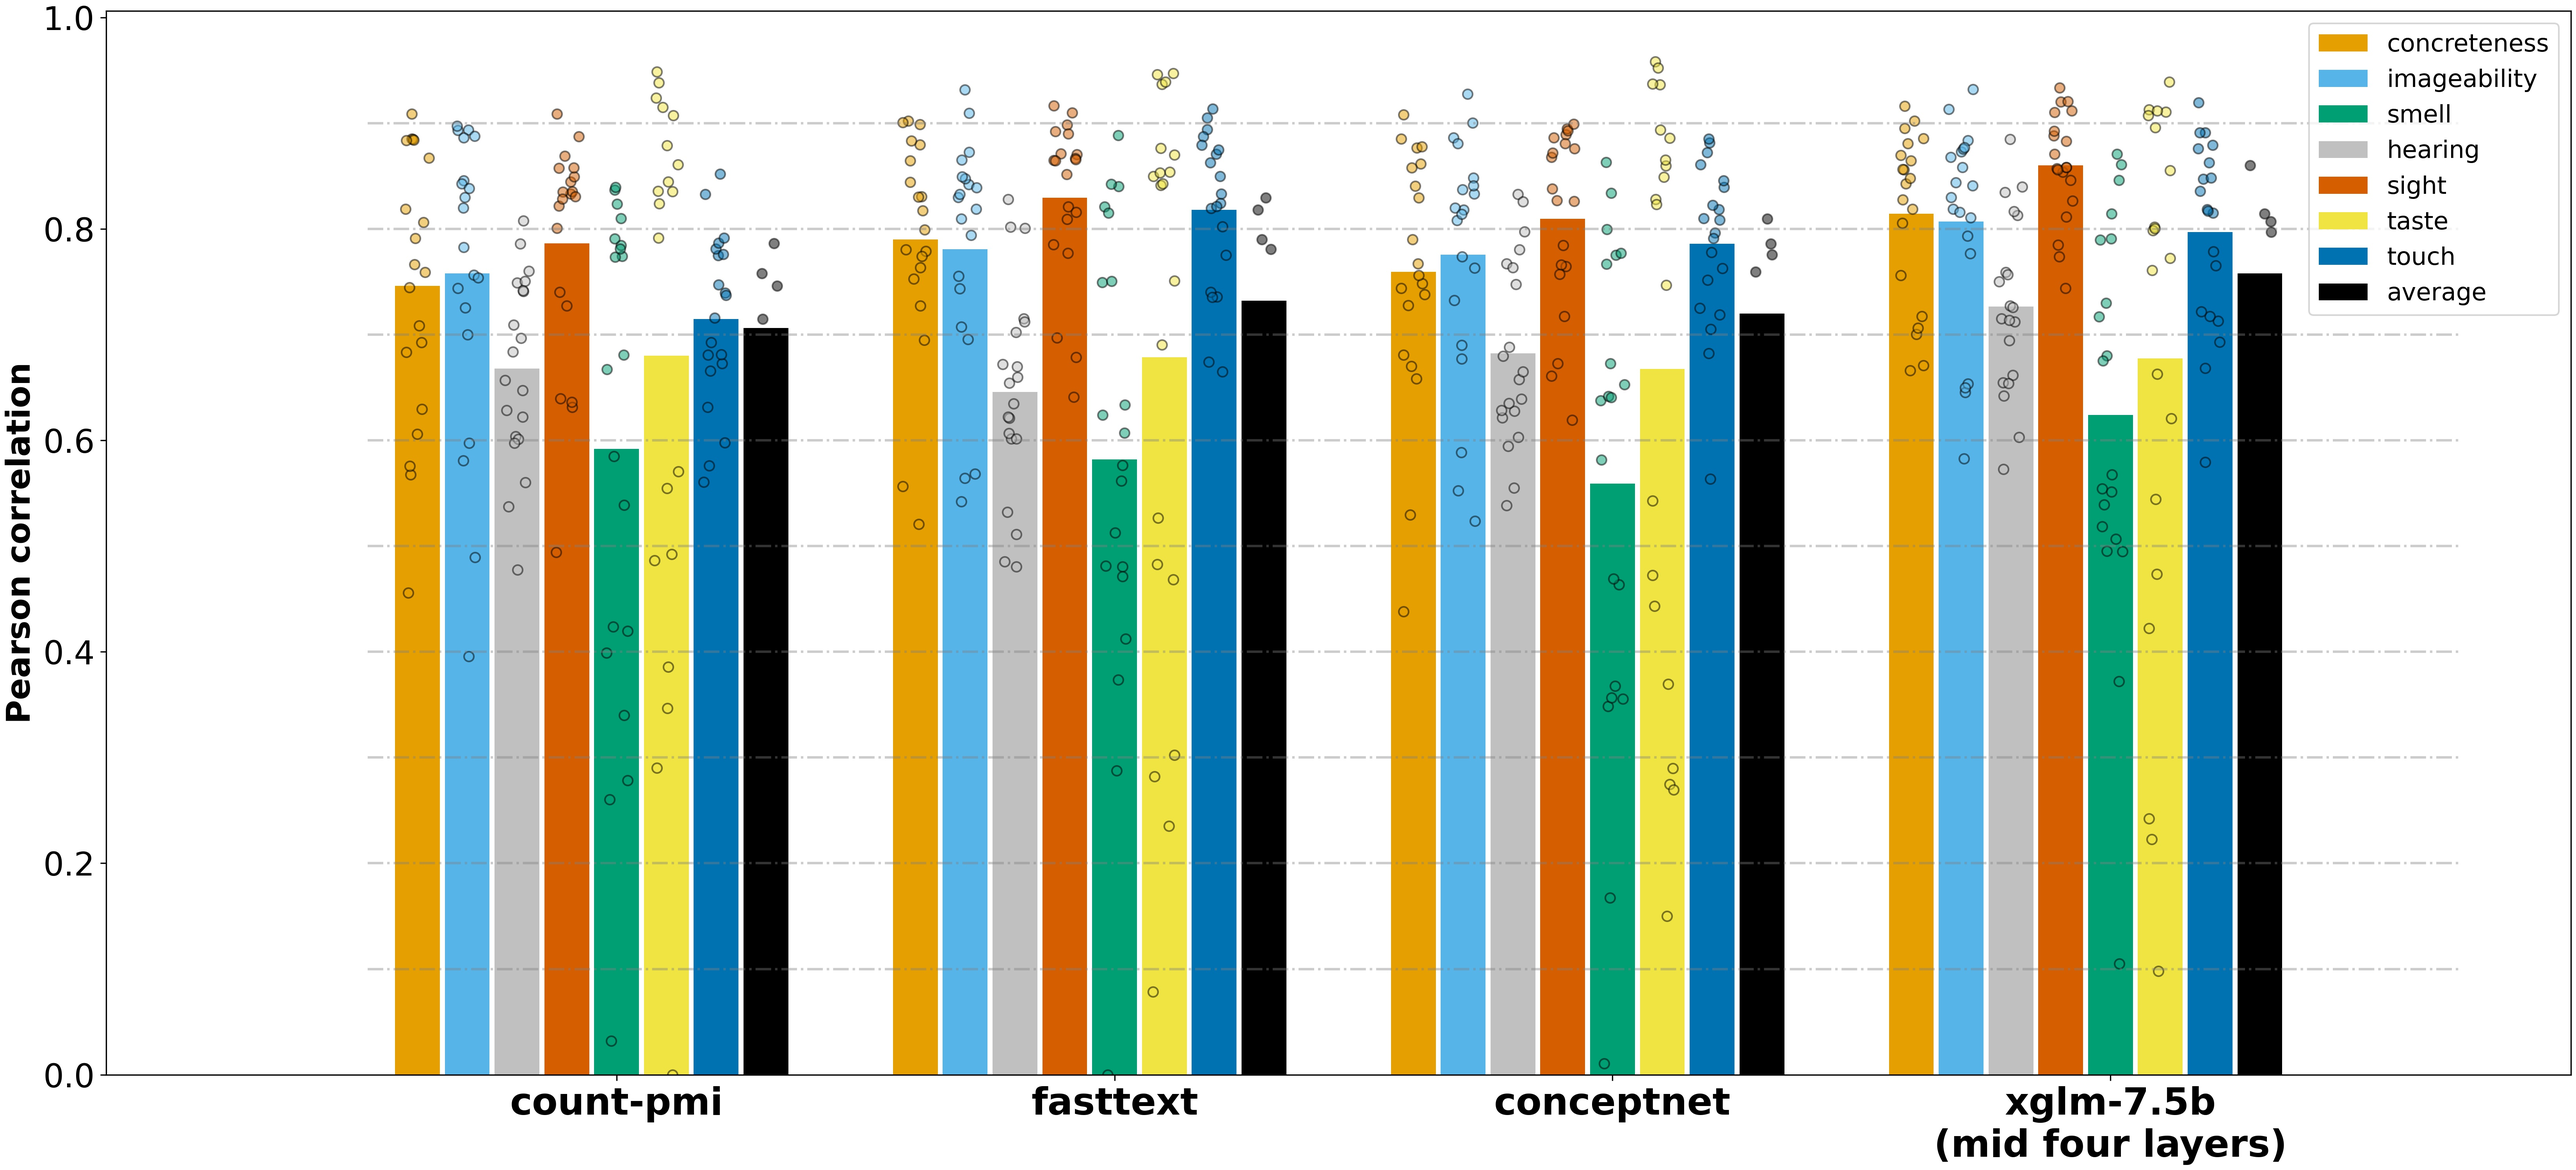
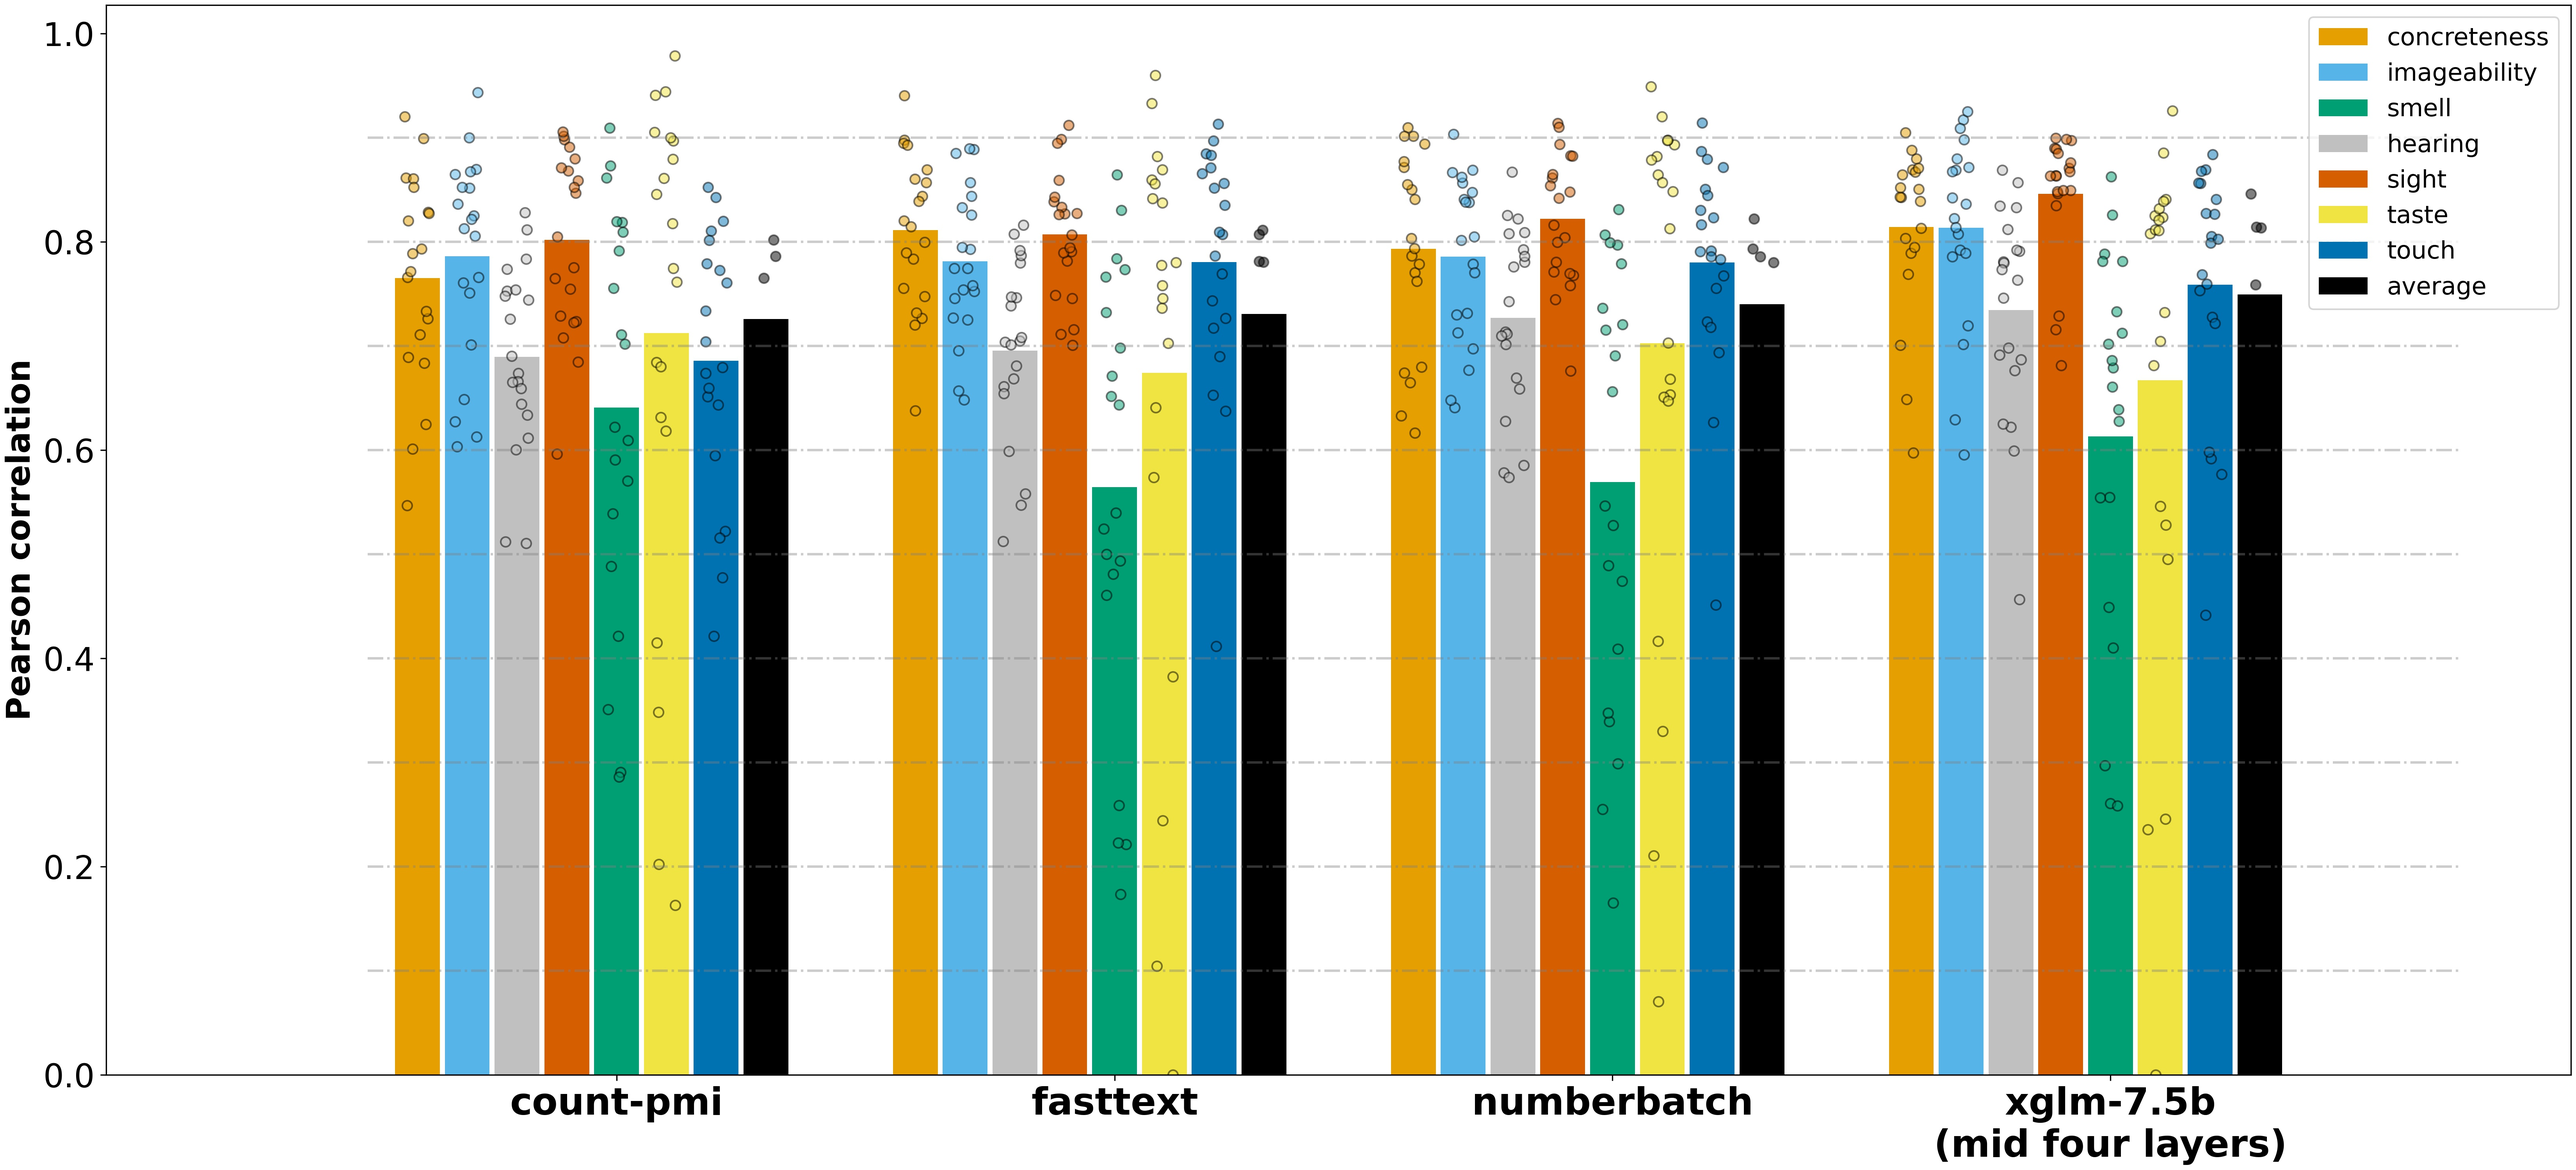
corrected mentions

diff --git a/05_extract_static.py b/05_extract_static.py
@@ -65,7 +65,7 @@ sentences_folder = 'sentences'
 for f in os.listdir(sentences_folder):
     full_stimuli.append(f.split('.')[0])
 
-collector = {'count' : dict(), 'fasttext' : dict(), 'w2v' : dict(), 'conceptnet' : dict()}
+collector = {'count' : dict(), 'fasttext' : dict(), 'w2v' : dict(), 'numberbatch' : dict()}
 
 conc, val, aro, dom, imag, fam = read_brysbaert_norms()
 pos = read_pos()
@@ -170,7 +170,7 @@ print('loading word2vec...')
 w2v = downloader.load('word2vec-google-news-300')
 print('loaded!')
 
-print('loading conceptnet...')
+print('loading numberbatch...')
 concept_net = dict()
 with open(os.path.join('..', '..', 'dataset', 'word_vectors', 'numberbatch-19.08.txt')) as i:
     for l_i, l in enumerate(i):
@@ -195,9 +195,9 @@ for f in full_stimuli:
     vec = numpy.average([w2v.wv[w] for w in words], axis=0)
     assert vec.shape == (300, )
     collector['w2v'][f] = vec
-    ### conceptnet
+    ### numberbatch
     vec = numpy.average([concept_net[w] for w in words], axis=0)
-    collector['conceptnet'][f] = vec
+    collector['numberbatch'][f] = vec
 
 for k, model_vecs in collector.items():
     with open(os.path.join('vectors', '{}_vectors.tsv'.format(k)), 'w') as o:

diff --git a/07_rsa_and_evaluation.py b/07_rsa_and_evaluation.py
@@ -65,7 +65,7 @@ models_sorted = [#'count', #'w2v',
                  #'count-log', 
                  'count-pmi', 
                  'fasttext', 
-                 'conceptnet',
+                 'numberbatch',
                  #'xglm-564m_mid_four',
                  #'xglm-1.7b_mid_four',
                  #'xglm-2.9b_mid_four',
